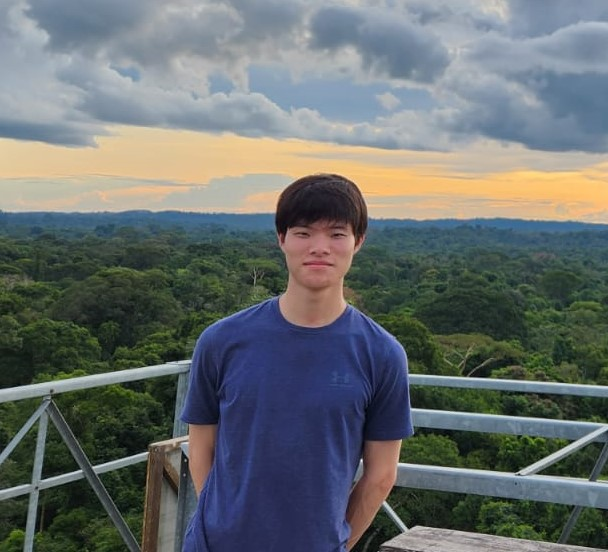
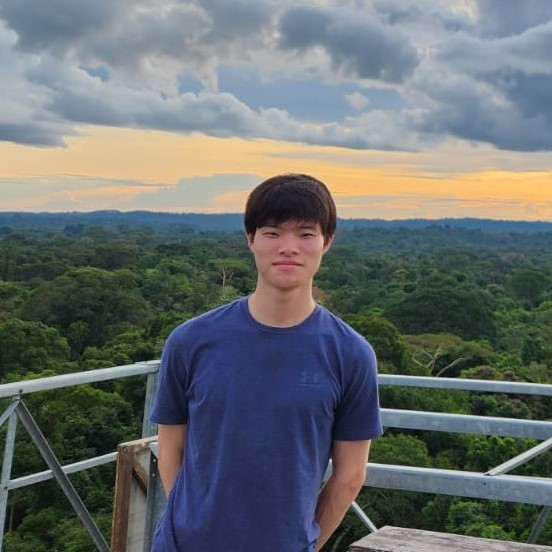
started parts 1 and 2

diff --git a/styles/about.css b/styles/about.css
@@ -26,6 +26,7 @@
     --normal-font-color: rgb(238, 236, 207);
     --link-font-color: rgb(175, 232, 213);
     --footer-background-color: rgb(99, 99, 99);
+    --invalid-background-color:rgb(236, 149, 149);
 
     --paragraph-font-family: Quicksand;
     --seg-title-font-family: MontserratBoldItalic;
@@ -42,6 +43,9 @@
     --item-margin-bottom: 4%;
     --segment-margin-top:2%;
     --default-gap:2%;
+
+    --desktop-input-height:40px;
+    --desktop-textarea-height:150px;
 
     --page-title-font-size: 46px;
     --seg-title-font-size: 36px;
@@ -134,7 +138,39 @@ section{
     margin-top: var(--segment-margin-top);
 }
 
+form {
+    display: flex;
+    flex-direction: column;
+    border-style: solid;
+    border-color: var(--normal-font-color);
+    padding:var(--default-gap)
+}
 
+input {
+    margin-bottom: var(--default-gap);
+    background-color: var(--normal-font-color);
+    color:var(--background-color);
+    font-family: var(--paragraph-font-family);
+    border-radius: 10px;
+    border-style: solid;
+    border-color: var(--normal-font-color);
+}
+input:user-invalid{
+    background-color: var(--invalid-background-color);
+}
+
+textarea{
+    margin-bottom: var(--default-gap);
+    background: var(--normal-font-color);
+    color: var(--background-color);
+    font-family: var(--paragraph-font-family);
+    border-radius: 10px;
+    border-style: solid;
+    border-color: var(--normal-font-color);
+}
+textarea:user-invalid{
+    background-color: var(--invalid-background-color);
+}
 /*Smaller phones*/
 @media screen and (max-width: 500px){
     nav {
@@ -164,6 +200,28 @@ section{
     nav li a:hover {
         background-color: var(--background-color);
         color: var(--normal-font-color);
+    }
+
+    form{
+        width: 100%;
+    }
+    form label{
+        font-size: var(--paragraph-font-size);
+    }
+
+    input{
+        font-size: var(--paragraph-font-size);
+        height: var(--desktop-input-height);
+    }
+
+    input[type="submit"]{
+        font-size: var(--paragraph-font-size);
+        width: 50%;
+    }
+
+    textarea{
+        font-size: var(--paragraph-font-size);
+        height: var(--desktop-textarea-height);
     }
 
     footer{
@@ -217,6 +275,25 @@ section{
         color: var(--normal-font-color);
     }
 
+    form{
+        width: 100%;
+    }
+    form label{
+        font-size: var(--paragraph-font-size);
+    }
+    input{
+        font-size: var(--paragraph-font-size);
+        height: var(--desktop-input-height);
+    }
+    input[type="submit"]{
+        font-size: var(--paragraph-font-size);
+        width: 50%;
+    }
+    textarea{
+        font-size: var(--paragraph-font-size);
+        height: var(--desktop-textarea-height);
+    }
+
     footer{
         font-size: var(--mobile-footer-font-size);
     }
@@ -239,7 +316,7 @@ section{
 
 
 /*Tablet, landscape*/
-@media only screen and (min-width: 1100px) {
+@media screen and (min-width: 1000px){
     nav {
         display: flex;
         background-color: var(--normal-font-color);
@@ -270,6 +347,30 @@ section{
         background-color: var(--background-color);
         color: var(--normal-font-color);
     }
+    
+    form{
+        width: 100%;
+    }
+    form label{
+        font-size: var(--paragraph-font-size);
+    }
+    input{
+        font-size: var(--paragraph-font-size);
+        height: var(--desktop-input-height);
+        width: 100%;
+    }
+    input[type="submit"]{
+        font-size: var(--paragraph-font-size);
+        width: 50%;
+    }
+    textarea{
+        font-size: var(--paragraph-font-size);
+        height: var(--desktop-textarea-height);
+    }
+
+    .introduction > p{
+        width: var(--long-text-width);
+    }    
 
     .introduction > p{
         width: var(--long-text-width);
@@ -320,6 +421,28 @@ section{
     nav li a:hover {
         background-color: var(--background-color);
         color: var(--normal-font-color);
+    }
+
+    form{
+        -width: 66%;
+    }
+    form label{
+        font-size: var(--paragraph-font-size);
+    }
+    input{
+        font-size: var(--paragraph-font-size);
+        height: var(--desktop-input-height);
+        width: 50%;
+        color:var(--background-color);
+    }
+    input[type="submit"]{
+        font-size: var(--paragraph-font-size);
+        width: 25%;
+    }
+    textarea{
+        font-size: var(--paragraph-font-size);
+        height: var(--desktop-textarea-height);
+        width: 100%;
     }
 
     .introduction > p{

diff --git a/about.html b/about.html
@@ -95,6 +95,25 @@
             strange and bizarre.  
         </p>
     </section>
+    <section class="contact-form" title="contact-form">
+        <hgroup>    
+            <h2>Let's talk!</h2>
+            <p>If you any suggestions for my latest project, I'd love to hear you out.</p>
+        </hgroup>
+        <form action="https://httpbin.org/post" method="POST">
+            <label for="contact-name">Name</label><br>
+            <input type="text" id="contact-name" name="contact-name" placeholder="Jane Doe" minlength="1" maxlength="30" pattern="[A-Z a-z]+" tabindex="1">
+            <br>
+            <label for="contact-email">Email *</label><br>
+            <input type="email" id="contact-email" name="contact-email" placeholder="example@gmail.com" maxlength="320" required tabindex="2">
+            <br>
+            <label for="comments">Comments (max 500 characters) *</label><br>
+            <textarea id="comments" name="comments" placeholder="Bugs, features, balance changes" rows="4" cols="50" maxlength="500" required tabindex="3"></textarea>
+            <br>
+            <input type="hidden" name="possible_bot" value="true">
+            <input type="submit">
+        </form>
+    </section>
     <footer>
         <address>
             Author: Gabriel Ikezaki<br> 

diff --git a/index.html b/index.html
@@ -31,7 +31,7 @@
     <br>
     <h1>Hello!</h1>
     <section class="segment introduction">
-        <img src="./images/profilepic_cropped.jpg" width="300" height="272" alt="profile pic">
+        <img src="./images/profilepic_cropped.jpg" width="300" height="300" alt="profile pic">
         <p>
             I'm Gabriel, a CS major at UCSD who can't get enough of game design, art and programming. I specialize in Unity and I'm currently
             learning Godot. Here you can take a look at my latest projects and games that I've made throughout my dev journey.

diff --git a/styles/main.css b/styles/main.css
@@ -39,6 +39,7 @@
     --gallery-landscape-col-gap:6dvw;
     --latest-col-gap: 4dvw;
 
+    --profile-pic-border-radius:50%;
     --mobile-game-margin-top:10%;
     --segment-margin-top:4%;
     --default-gap:2%;
@@ -130,7 +131,9 @@ footer a{
     margin-right: var(--default-gap);
     margin-top: var(--segment-margin-top);
 }
-
+.introduction > img{
+    border-radius: var(--profile-pic-border-radius);
+}
 .introduction > p{
     opacity: 0;
     animation: fade-in var(--fade-in-default-time) forwards;
